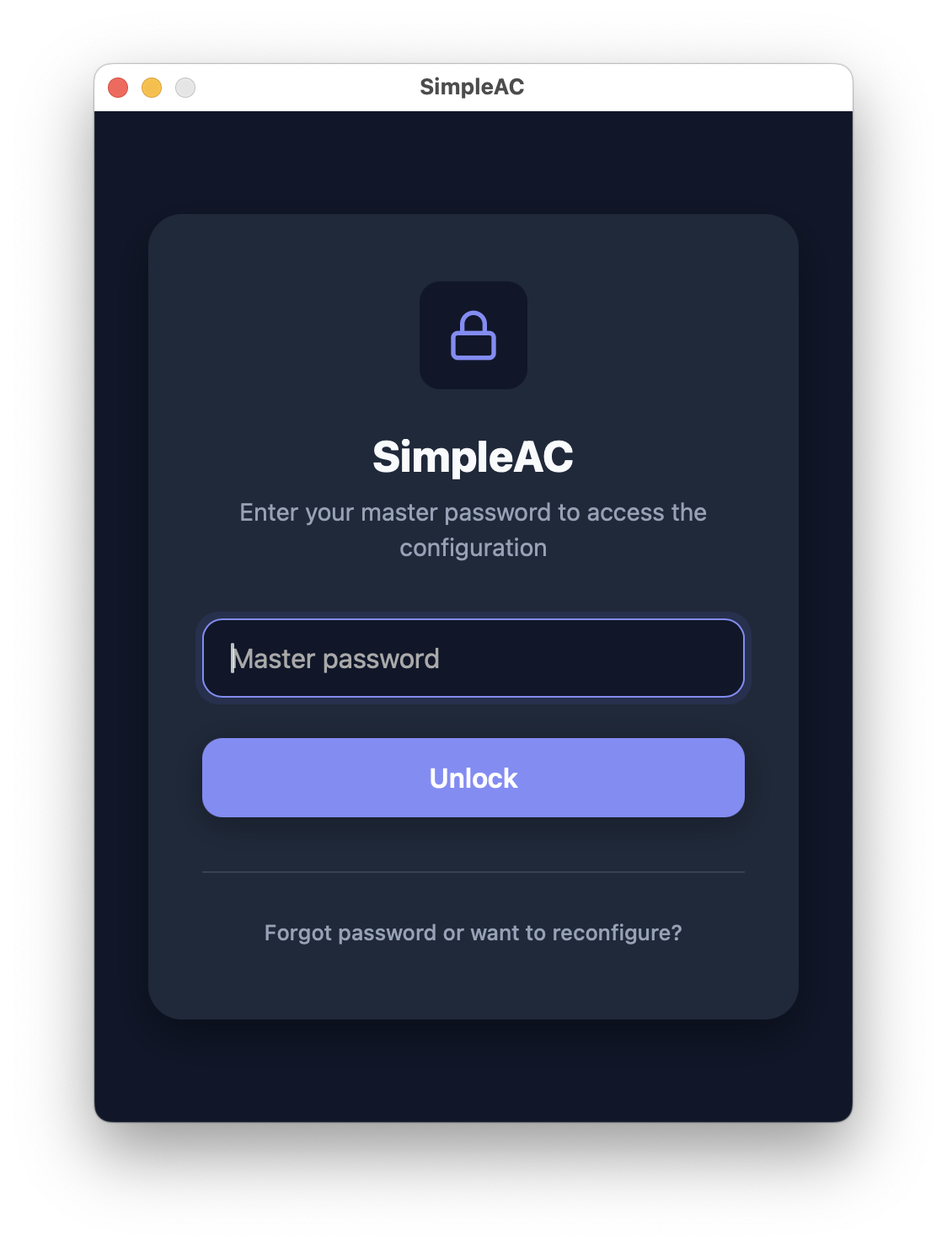
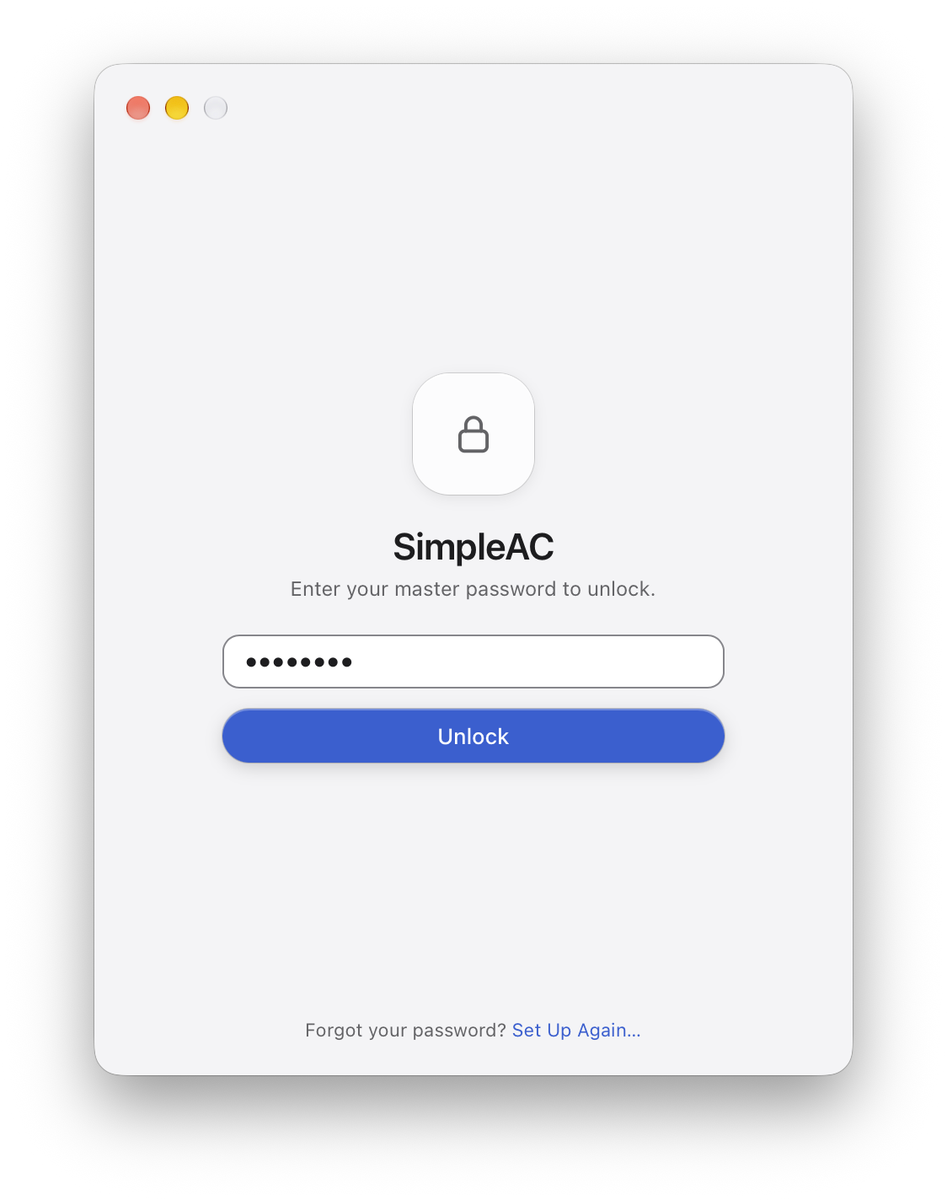
docs: rewrite README, add Russian translation, refresh screenshots

diff --git a/README.md b/README.md
@@ -1,115 +1,152 @@
+<div align="center">
 
 # SimpleAC
 
-**SimpleAC** — это легковесная открытая графическая оболочка (wrapper) для командной строки **Cisco AnyConnect**. Она создана для того, чтобы сделать использование VPN более удобным, добавляя удобное подключение в один клик с шифрованием вашей конфигурации.
+**A calm, native-feeling desktop app for the Cisco AnyConnect CLI.**
+One click to connect. Credentials encrypted. TOTP filled in for you.
 
+[![Release](https://img.shields.io/github/v/release/fadinflame/simple-ac?style=flat-square)](https://github.com/fadinflame/simple-ac/releases/latest)
+[![Build](https://img.shields.io/github/actions/workflow/status/fadinflame/simple-ac/build.yml?style=flat-square)](https://github.com/fadinflame/simple-ac/actions)
+[![License](https://img.shields.io/github/license/fadinflame/simple-ac?style=flat-square)](LICENSE)
+![Platforms](https://img.shields.io/badge/platform-macOS%20%7C%20Windows%20%7C%20Linux-lightgrey?style=flat-square)
+![Built with](https://img.shields.io/badge/Go%20%2B%20Wails%20%2B%20Svelte-00ADD8?style=flat-square)
 
-<p align="center">
-  <img src="assets/main.png" alt="SimpleAC Main Screen" width="600">
-</p>
+English · [Русский](README.ru.md)
 
-<p align="center">
-  <a href="SCREENSHOTS.md"><b>View all screenshots / Посмотреть все скриншоты</b></a>
-</p>
+<img src="assets/main.png" alt="SimpleAC main screen" width="420">
 
-
-[Russian](#russian) | [English](#english)
+</div>
 
 ---
 
-<a name="english"></a>
-## English
+## Overview
 
-**SimpleAC** is a lightweight open-source GUI wrapper for the **Cisco AnyConnect CLI**. It is designed to make VPN usage more convenient and one-click connection with full encryption of your configuration (AES-256).
+SimpleAC is a lightweight, open-source GUI for the **Cisco AnyConnect command-line client**. It does not implement any VPN protocol itself: it drives the official CLI that is already installed on your machine and presents it in a small, focused window.
 
+Your VPN details are stored in a single file encrypted with a master password, so connecting is as simple as unlocking the app and pressing **Connect**.
 
+## Features
 
-### ⚖ Legal Disclaimer
-- **Not a modification**: SimpleAC does NOT modify, patch, or interfere with the Cisco AnyConnect binary or its internal protocols.
-- **Wrapper only**: This application acts solely as a GUI shell that executes standard CLI commands (e.g., `vpn connect`, `vpn disconnect`) provided by the official Cisco AnyConnect installation.
-- **No affiliation**: SimpleAC is not affiliated with, endorsed by, or sponsored by Cisco Systems, Inc. "AnyConnect" is a trademark of Cisco Systems, Inc.
-- **"As Is"**: The software is provided "as is", without warranty of any kind. Use it at your own risk.
+**Connection**
+- One-click connect and disconnect, with a live connection timer.
+- Automatic status sync: the app notices when the VPN state changes outside of it.
+- Clear, human-readable errors when the CLI is missing, not executable, or the connection fails.
 
-### 🚀 Features
-- **2FA Support**: Built-in TOTP (Google Authenticator) support.
-- **Connection Timer**: See exactly how long you've been connected.
-- **Lightweight**: Minimal resource usage compared to the official GUI.
+**Security**
+- AES-256-GCM encryption with a key derived from your master password (PBKDF2-SHA256, 100,000 iterations).
+- The master password is never stored. It is used only to derive the key when credentials are loaded or saved.
+- **Lock** wipes credentials from memory and disconnects, without quitting the app.
+- Secrets are never written to disk in plain text. Only non-sensitive settings are stored unencrypted.
 
-### 🛠 Installation
-SimpleAC requires the official Cisco AnyConnect client to be installed on your system.
+**Two-factor authentication**
+- Built-in TOTP generator (Google Authenticator compatible): paste your OTP secret once, and the code is generated and submitted automatically on every connect.
 
-#### From Releases (Recommended)
-1. Go to the [Releases](https://github.com/fadinflame/simple-ac/releases) page.
-2. Download the latest version for your OS (macOS or Windows).
-3. Run the application.
+**Everyday comfort**
+- Built-in log viewer with separate tabs for raw VPN client output and app events.
+- Edit your credentials in place, with password and OTP fields masked until you reveal them.
+- Custom CLI location with validation, for non-standard installs.
+- Light, dark, or system theme, and a choice of toolbar material.
+- Keyboard shortcuts: `Cmd/Ctrl + ,` for Settings, `Cmd/Ctrl + L` to lock.
+- Manual update check against GitHub Releases.
+- Small footprint compared to the official client.
 
-#### Building from Source
-If you want to build it yourself, you'll need [Go](https://go.dev/) and [Wails](https://wails.io/) installed.
+## Screenshots
+
+<table>
+  <tr>
+    <td align="center"><img src="assets/password.png" alt="Unlock" width="260"><br><sub>Unlock with your master password</sub></td>
+    <td align="center"><img src="assets/main.png" alt="Main" width="260"><br><sub>Connect with one click</sub></td>
+    <td align="center"><img src="assets/settings.png" alt="Settings" width="260"><br><sub>Settings</sub></td>
+  </tr>
+  <tr>
+    <td align="center"><img src="assets/setup1.png" alt="Setup, step 1" width="260"><br><sub>Setup: VPN details</sub></td>
+    <td align="center"><img src="assets/setup2.png" alt="Setup, step 2" width="260"><br><sub>Setup: encryption</sub></td>
+    <td align="center"><img src="assets/logs.png" alt="Logs" width="260"><br><sub>Live logs</sub></td>
+  </tr>
+</table>
+
+Full-size images: [SCREENSHOTS.md](SCREENSHOTS.md).
+
+## Requirements
+
+- The **official Cisco AnyConnect client** (with its command-line tool) installed on your system.
+- A VPN profile where the login prompts come in the order **group, username, password, (optional) one-time code**. SimpleAC feeds the CLI exactly this sequence.
+
+Default CLI locations:
+
+| OS | Path |
+|---|---|
+| macOS / Linux | `/opt/cisco/anyconnect/bin/vpn` |
+| Windows | `C:\Program Files (x86)\Cisco\Cisco AnyConnect Secure Mobility Client\vpncli.exe` |
+
+Installed somewhere else? Point SimpleAC to it in **Settings › VPN client**. The path is verified before it is saved.
+
+## Installation
+
+### From Releases (recommended)
+
+1. Open the [Releases](https://github.com/fadinflame/simple-ac/releases/latest) page.
+2. Download the build for your OS: macOS (`.zip`), Windows (`.zip`), or Linux (`.tar.gz`).
+3. Unpack and run.
+
+### Build from source
+
+You need [Go](https://go.dev/), [Node.js](https://nodejs.org/) and the [Wails v2 CLI](https://wails.io/).
+
 ```bash
 git clone https://github.com/fadinflame/simple-ac.git
 cd simple-ac
 wails build
 ```
 
-### ⚙ Configuration
-The app expects the Cisco AnyConnect CLI to be located at:
-- **macOS/Linux**: `/opt/cisco/anyconnect/bin/vpn`
-- **Windows**: `C:\Program Files (x86)\Cisco\Cisco AnyConnect Secure Mobility Client\vpncli.exe`
+The binary is placed in `build/bin/`. For live development use `wails dev`.
 
-In the settings, provide your:
-- Server Address
-- Group
-- Username & Password
-- (Optional) TOTP Secret for 2FA
+## Getting started
 
----
+1. **Launch SimpleAC.** On first run a two-step setup opens.
+2. **Enter your VPN details:** server, username, password, group, and optionally the TOTP secret.
+3. **Choose where to save the encrypted file** and set a master password.
+4. From then on, unlock with the master password and press **Connect**.
 
-<a name="russian"></a>
-## Russian (RU)
+## Good to know
 
-**SimpleAC** — это легкая графическая оболочка (wrapper) с открытым исходным кодом для **Cisco AnyConnect CLI**. Она упрощает управление VPN, предоставляя удобное подключение в один клик. Основной упор сделан на простоту использования и полную безопасность данных: ваша конфигурация и учетные данные защищены шифрованием **AES-256**.
+- **There is no password recovery.** If you forget the master password, the encrypted file cannot be opened. Set up again and re-enter your VPN details.
+- **Back up the credentials file** if it matters to you. Its location is shown during setup; it is a single self-contained file.
+- **"Set Up Again" does not delete anything.** Saving to the same path overwrites the old file; a different path leaves the old one on disk.
+- **TOTP needs an accurate clock.** If the server rejects codes, check that your system time is synchronized.
+- **Timeouts are short by design.** A connection attempt is limited to 10 seconds, so slow servers may need a retry. Details are always in the Logs screen.
+- **The window has a fixed size** and is not resizable.
+- **Updates are manual.** Use *Check for Updates* in Settings; SimpleAC opens the release page rather than patching itself.
+- **Changing the encryption parameters in a future version would make older files unreadable.** Keep this in mind when upgrading across major changes.
 
+## Security model
 
+| Item | Where it lives | Protection |
+|---|---|---|
+| Server, username, password, group, OTP secret | A file you choose | AES-256-GCM, key from PBKDF2-SHA256 (100k iterations) |
+| Master password | Nowhere | Used only to derive the key, never persisted |
+| Settings (credentials file path, CLI path) | `~/.simple-ac/config.json` on macOS/Linux, `%APPDATA%\simple-ac\config.json` on Windows | Plain JSON, file mode `0600` |
 
-### ⚖ Юридическая информация
-- **Не модификация**: SimpleAC НЕ модифицирует, не патчит и не вмешивается в работу бинарных файлов Cisco AnyConnect или их внутренние протоколы.
-- **Только обертка**: Это приложение работает исключительно как графическая оболочка, вызывающая стандартные команды CLI (например, `vpn connect`, `vpn disconnect`), предоставляемые официальной установкой Cisco AnyConnect.
-- **Никакой аффилиации**: SimpleAC не связан, не поддерживается и не спонсируется компанией Cisco Systems, Inc. "AnyConnect" является торговой маркой Cisco Systems, Inc.
-- **"Как есть"**: Программное обеспечение предоставляется по лицензии MIT "как есть", без каких-либо гарантий. Используйте на свой страх и риск.
+File layout: `salt (16 bytes) || nonce (12 bytes) || ciphertext`.
 
-### 🚀 Особенности
-- **Поддержка 2FA**: Встроенная поддержка TOTP (Google Authenticator).
-- **Таймер подключения**: Точно отображает время вашего нахождения в сети.
-- **Легкость**: Минимальное потребление ресурсов по сравнению с официальным GUI.
+## How it works
 
-### 🛠 Установка
-Для работы SimpleAC необходимо, чтобы в вашей системе уже был установлен официальный клиент Cisco AnyConnect.
-
-#### Из разделов Releases (Рекомендуется)
-1. Перейдите на страницу [Releases](https://github.com/fadinflame/simple-ac/releases).
-2. Скачайте последнюю версию для вашей ОС (macOS или Windows).
-3. Запустите приложение.
-
-#### Сборка из исходного кода
-Если вы хотите собрать приложение самостоятельно, вам понадобятся установленные [Go](https://go.dev/) и [Wails](https://wails.io/).
-```bash
-git clone https://github.com/fadinflame/simple-ac.git
-cd simple-ac
-wails build
+```mermaid
+flowchart LR
+    UI[Svelte UI] <--> Go[Go backend]
+    Go --> Crypto[AES-256-GCM storage]
+    Go -->|stdin / stdout| CLI[Cisco AnyConnect CLI]
 ```
 
-### ⚙ Конфигурация
-Приложение ожидает, что CLI Cisco AnyConnect находится по путям:
-- **macOS/Linux**: `/opt/cisco/anyconnect/bin/vpn`
-- **Windows**: `C:\Program Files (x86)\Cisco\Cisco AnyConnect Secure Mobility Client\vpncli.exe`
+SimpleAC runs `vpn -s connect <server>` and writes the login answers to its standard input. Connection state is read from the CLI's `status` output and re-checked in the background every 30 seconds.
 
-В настройках укажите:
-- Адрес сервера (Server Address)
-- Группу (Group)
-- Имя пользователя и пароль (Username & Password)
-- (Опционально) TOTP Secret для 2FA
+## Legal
 
----
+- **Not a modification.** SimpleAC does not modify, patch or interfere with the Cisco AnyConnect binaries or protocols.
+- **Wrapper only.** It runs standard commands (`vpn connect`, `vpn disconnect`, `vpn status`) of the official installation.
+- **No affiliation.** SimpleAC is not affiliated with, endorsed by, or sponsored by Cisco Systems, Inc. "Cisco" and "AnyConnect" are trademarks of Cisco Systems, Inc.
+- **"As is".** The software is provided without warranty of any kind. Use it at your own risk.
 
-### 📄 License
-This project is licensed under the **MIT License**. See the [LICENSE](LICENSE) file for details.
+## License
+
+Released under the [MIT License](LICENSE).

diff --git a/README.ru.md b/README.ru.md
@@ -1,0 +1,152 @@
+<div align="center">
+
+# SimpleAC
+
+**Спокойное нативное приложение для командной строки Cisco AnyConnect.**
+Подключение в один клик. Шифрование учётных данных. TOTP подставляется сам.
+
+[![Release](https://img.shields.io/github/v/release/fadinflame/simple-ac?style=flat-square)](https://github.com/fadinflame/simple-ac/releases/latest)
+[![Build](https://img.shields.io/github/actions/workflow/status/fadinflame/simple-ac/build.yml?style=flat-square)](https://github.com/fadinflame/simple-ac/actions)
+[![License](https://img.shields.io/github/license/fadinflame/simple-ac?style=flat-square)](LICENSE)
+![Platforms](https://img.shields.io/badge/platform-macOS%20%7C%20Windows%20%7C%20Linux-lightgrey?style=flat-square)
+![Built with](https://img.shields.io/badge/Go%20%2B%20Wails%20%2B%20Svelte-00ADD8?style=flat-square)
+
+[English](README.md) · Русский
+
+<img src="assets/main.png" alt="Главный экран SimpleAC" width="420">
+
+</div>
+
+---
+
+## Обзор
+
+SimpleAC — лёгкая графическая оболочка с открытым исходным кодом для **командной строки Cisco AnyConnect**. Приложение не реализует VPN-протоколы само: оно управляет официальным CLI, уже установленным в системе, и показывает его в компактном окне.
+
+Данные для входа хранятся в одном файле, зашифрованном мастер-паролем, поэтому подключение сводится к разблокировке приложения и нажатию **Connect**.
+
+## Возможности
+
+**Подключение**
+- Подключение и отключение в один клик, таймер соединения в реальном времени.
+- Автоматическая синхронизация статуса: приложение замечает изменения состояния VPN, сделанные вне его.
+- Понятные сообщения об ошибках, если CLI не найден, не запускается или подключение не удалось.
+
+**Безопасность**
+- Шифрование AES-256-GCM, ключ выводится из мастер-пароля (PBKDF2-SHA256, 100 000 итераций).
+- Мастер-пароль нигде не хранится: он нужен только для получения ключа при чтении и записи данных.
+- Кнопка **Lock** стирает данные из памяти и отключает VPN, не закрывая приложение.
+- Секреты никогда не пишутся на диск в открытом виде. Без шифрования хранятся только несекретные настройки.
+
+**Двухфакторная аутентификация**
+- Встроенный генератор TOTP (совместим с Google Authenticator): один раз вставьте OTP-секрет, и код будет генерироваться и подставляться при каждом подключении.
+
+**Удобство каждый день**
+- Просмотр логов во встроенном окне: отдельные вкладки для вывода VPN-клиента и событий приложения.
+- Редактирование учётных данных на месте; пароль и OTP-секрет скрыты, пока вы их не покажете.
+- Собственный путь к CLI с проверкой, для нестандартных установок.
+- Светлая, тёмная или системная тема, на выбор материал панели инструментов.
+- Горячие клавиши: `Cmd/Ctrl + ,` — настройки, `Cmd/Ctrl + L` — блокировка.
+- Ручная проверка обновлений через GitHub Releases.
+- Небольшой размер и потребление ресурсов по сравнению с официальным клиентом.
+
+## Скриншоты
+
+<table>
+  <tr>
+    <td align="center"><img src="assets/password.png" alt="Разблокировка" width="260"><br><sub>Разблокировка мастер-паролем</sub></td>
+    <td align="center"><img src="assets/main.png" alt="Главный экран" width="260"><br><sub>Подключение в один клик</sub></td>
+    <td align="center"><img src="assets/settings.png" alt="Настройки" width="260"><br><sub>Настройки</sub></td>
+  </tr>
+  <tr>
+    <td align="center"><img src="assets/setup1.png" alt="Настройка, шаг 1" width="260"><br><sub>Настройка: данные VPN</sub></td>
+    <td align="center"><img src="assets/setup2.png" alt="Настройка, шаг 2" width="260"><br><sub>Настройка: шифрование</sub></td>
+    <td align="center"><img src="assets/logs.png" alt="Логи" width="260"><br><sub>Логи в реальном времени</sub></td>
+  </tr>
+</table>
+
+Все скриншоты в полном размере: [SCREENSHOTS.md](SCREENSHOTS.md).
+
+## Требования
+
+- Установленный **официальный клиент Cisco AnyConnect** (вместе с его командной строкой).
+- VPN-профиль, в котором запросы идут в порядке **группа, имя пользователя, пароль, (опционально) одноразовый код**. Именно в таком порядке SimpleAC передаёт данные в CLI.
+
+Расположение CLI по умолчанию:
+
+| ОС | Путь |
+|---|---|
+| macOS / Linux | `/opt/cisco/anyconnect/bin/vpn` |
+| Windows | `C:\Program Files (x86)\Cisco\Cisco AnyConnect Secure Mobility Client\vpncli.exe` |
+
+Клиент установлен в другом месте? Укажите путь в **Settings › VPN client**. Перед сохранением путь проверяется.
+
+## Установка
+
+### Из Releases (рекомендуется)
+
+1. Откройте страницу [Releases](https://github.com/fadinflame/simple-ac/releases/latest).
+2. Скачайте сборку для своей ОС: macOS (`.zip`), Windows (`.zip`) или Linux (`.tar.gz`).
+3. Распакуйте и запустите.
+
+### Сборка из исходного кода
+
+Понадобятся [Go](https://go.dev/), [Node.js](https://nodejs.org/) и [Wails v2 CLI](https://wails.io/).
+
+```bash
+git clone https://github.com/fadinflame/simple-ac.git
+cd simple-ac
+wails build
+```
+
+Бинарник появится в `build/bin/`. Для разработки с live-перезагрузкой используйте `wails dev`.
+
+## Быстрый старт
+
+1. **Запустите SimpleAC.** При первом запуске откроется двухшаговая настройка.
+2. **Введите данные VPN:** сервер, имя пользователя, пароль, группу и, при необходимости, TOTP-секрет.
+3. **Выберите, где сохранить зашифрованный файл**, и задайте мастер-пароль.
+4. Дальше достаточно разблокировать приложение мастер-паролем и нажать **Connect**.
+
+## Что стоит знать
+
+- **Восстановления пароля нет.** Если вы забудете мастер-пароль, зашифрованный файл открыть не получится. Настройте приложение заново и введите данные VPN снова.
+- **Делайте резервную копию файла с учётными данными**, если он вам важен. Его расположение показывается при настройке; это один самодостаточный файл.
+- **«Set Up Again» ничего не удаляет.** При сохранении по тому же пути старый файл перезаписывается; при другом пути старый остаётся на диске.
+- **Для TOTP нужны точные часы.** Если сервер отклоняет коды, проверьте синхронизацию системного времени.
+- **Таймауты намеренно короткие.** Попытка подключения ограничена 10 секундами, поэтому для медленных серверов может понадобиться повтор. Подробности всегда есть на экране Logs.
+- **Размер окна фиксированный**, изменить его нельзя.
+- **Обновления проверяются вручную.** Нажмите *Check for Updates* в настройках; SimpleAC откроет страницу релиза, а не обновляет себя сам.
+- **Смена параметров шифрования в будущих версиях сделает старые файлы нечитаемыми.** Учитывайте это при обновлении между крупными версиями.
+
+## Модель безопасности
+
+| Что | Где хранится | Защита |
+|---|---|---|
+| Сервер, логин, пароль, группа, OTP-секрет | Файл, который выбираете вы | AES-256-GCM, ключ из PBKDF2-SHA256 (100k итераций) |
+| Мастер-пароль | Нигде | Только для получения ключа, не сохраняется |
+| Настройки (путь к файлу данных, путь к CLI) | `~/.simple-ac/config.json` на macOS/Linux, `%APPDATA%\simple-ac\config.json` на Windows | Обычный JSON, права `0600` |
+
+Формат файла: `salt (16 байт) || nonce (12 байт) || ciphertext`.
+
+## Как это работает
+
+```mermaid
+flowchart LR
+    UI[Svelte UI] <--> Go[Go backend]
+    Go --> Crypto[Хранилище AES-256-GCM]
+    Go -->|stdin / stdout| CLI[Cisco AnyConnect CLI]
+```
+
+SimpleAC запускает `vpn -s connect <server>` и передаёт ответы на запросы входа через стандартный ввод. Состояние соединения считывается из вывода `status` и перепроверяется в фоне каждые 30 секунд.
+
+## Юридическая информация
+
+- **Не модификация.** SimpleAC не изменяет, не патчит и не вмешивается в работу бинарных файлов и протоколов Cisco AnyConnect.
+- **Только оболочка.** Приложение вызывает стандартные команды (`vpn connect`, `vpn disconnect`, `vpn status`) официальной установки.
+- **Нет аффилиации.** SimpleAC не связан с Cisco Systems, Inc., не одобрен и не спонсируется ею. «Cisco» и «AnyConnect» — торговые марки Cisco Systems, Inc.
+- **«Как есть».** Программное обеспечение предоставляется без каких-либо гарантий. Используйте на свой страх и риск.
+
+## Лицензия
+
+Распространяется по [лицензии MIT](LICENSE).
